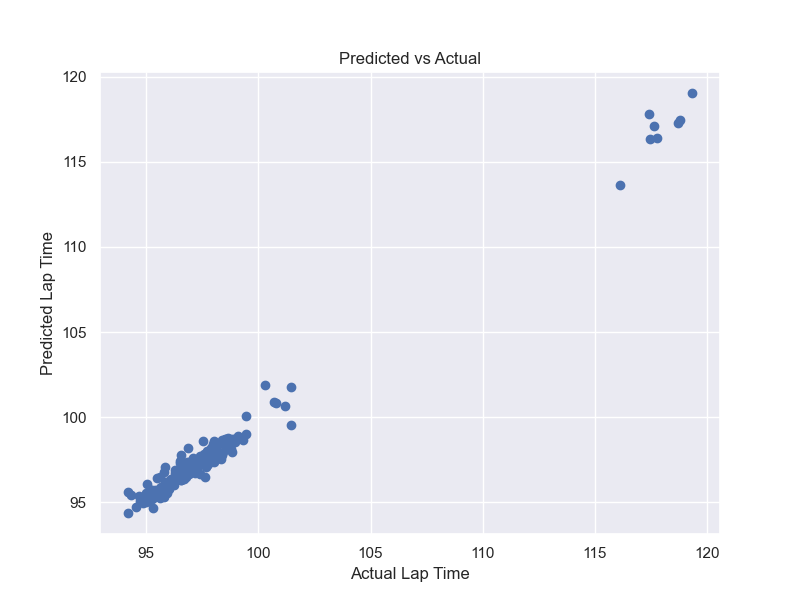
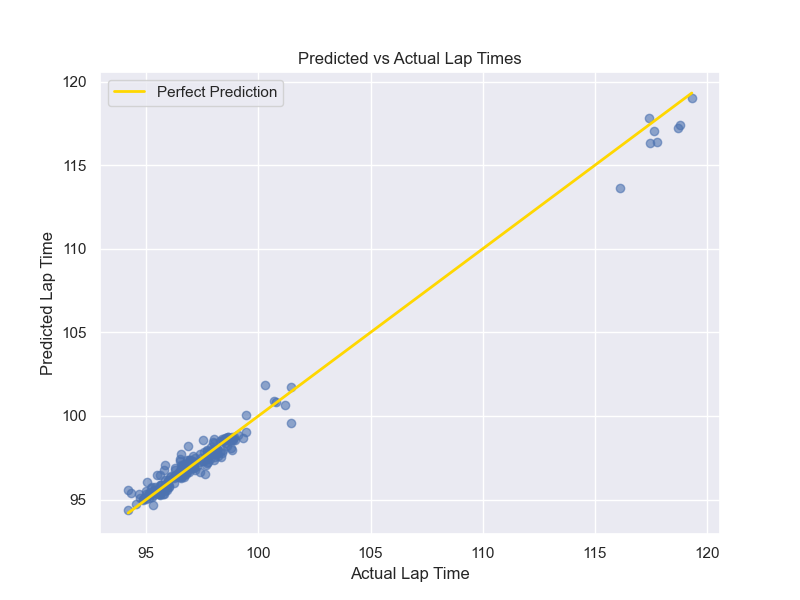
Updated graph styles

diff --git a/f1_analysis.py b/f1_analysis.py
@@ -284,13 +284,35 @@ plt.scatter(
 plt.xlabel("Actual Lap Time")
 plt.ylabel("Predicted Lap Time")
 
-plt.title("Predicted vs Actual")
+# Predicted vs Actual Plot
+plt.figure(figsize=(8,6))
+
+plt.scatter(
+    y_test,
+    y_pred,
+    alpha=0.6
+)
+
+plt.plot(
+    [y_test.min(), y_test.max()],
+    [y_test.min(), y_test.max()],
+    color="gold",
+    linewidth=2,
+    label="Perfect Prediction"
+)
+
+plt.xlabel("Actual Lap Time")
+plt.ylabel("Predicted Lap Time")
+plt.title("Predicted vs Actual Lap Times")
+plt.legend()
 
 plt.savefig(
     "plots/predicted_vs_actual.png"
 )
 
 plt.close()
+
+print("predicted_vs_actual.png created successfully")
 
 print("predicted_vs_actual.png created successfully")
 
@@ -346,8 +368,9 @@ plt.close()
 
 print("feature_importance.png created successfully")
 
-
-# Anomaly Detection
+# ==========================
+# ANOMALY DETECTION
+# ==========================
 
 laps["IsAnomaly"] = False
 
@@ -356,7 +379,6 @@ for driver in laps["Driver"].unique():
     driver_data = laps[laps["Driver"] == driver]
 
     median_time = driver_data["LapTime"].median()
-
     std_time = driver_data["LapTime"].std()
 
     threshold = median_time + (2 * std_time)
@@ -367,23 +389,48 @@ for driver in laps["Driver"].unique():
         "IsAnomaly"
     ] = True
 
-anomaly_counts = laps.groupby(
-    "Driver"
-)["IsAnomaly"].sum()
-
 print("\nAnomaly Count By Driver")
-print(anomaly_counts)
+print(
+    laps.groupby("Driver")["IsAnomaly"].sum()
+)
 
+# Top 3 fastest drivers
+top3_drivers = (
+    laps.groupby("Driver")["LapTime"]
+    .mean()
+    .sort_values()
+    .head(3)
+    .index
+)
 
-plt.figure(figsize=(12,6))
+plt.figure(figsize=(12, 6))
 
-anomaly_counts.sort_values(
-    ascending=False
-).plot(kind="bar")
+for driver in top3_drivers:
 
-plt.title("Anomaly Count by Driver")
-plt.xlabel("Driver")
-plt.ylabel("Number of Anomalies")
+    driver_data = laps[laps["Driver"] == driver]
+
+    plt.plot(
+        driver_data["LapNumber"],
+        driver_data["LapTime"],
+        label=driver
+    )
+
+    anomalies = driver_data[
+        driver_data["IsAnomaly"]
+    ]
+
+    plt.scatter(
+        anomalies["LapNumber"],
+        anomalies["LapTime"],
+        color="red",
+        marker="x",
+        s=100
+    )
+
+plt.title("Anomaly Detection - Top 3 Drivers")
+plt.xlabel("Lap Number")
+plt.ylabel("Lap Time (seconds)")
+plt.legend()
 
 plt.tight_layout()
 